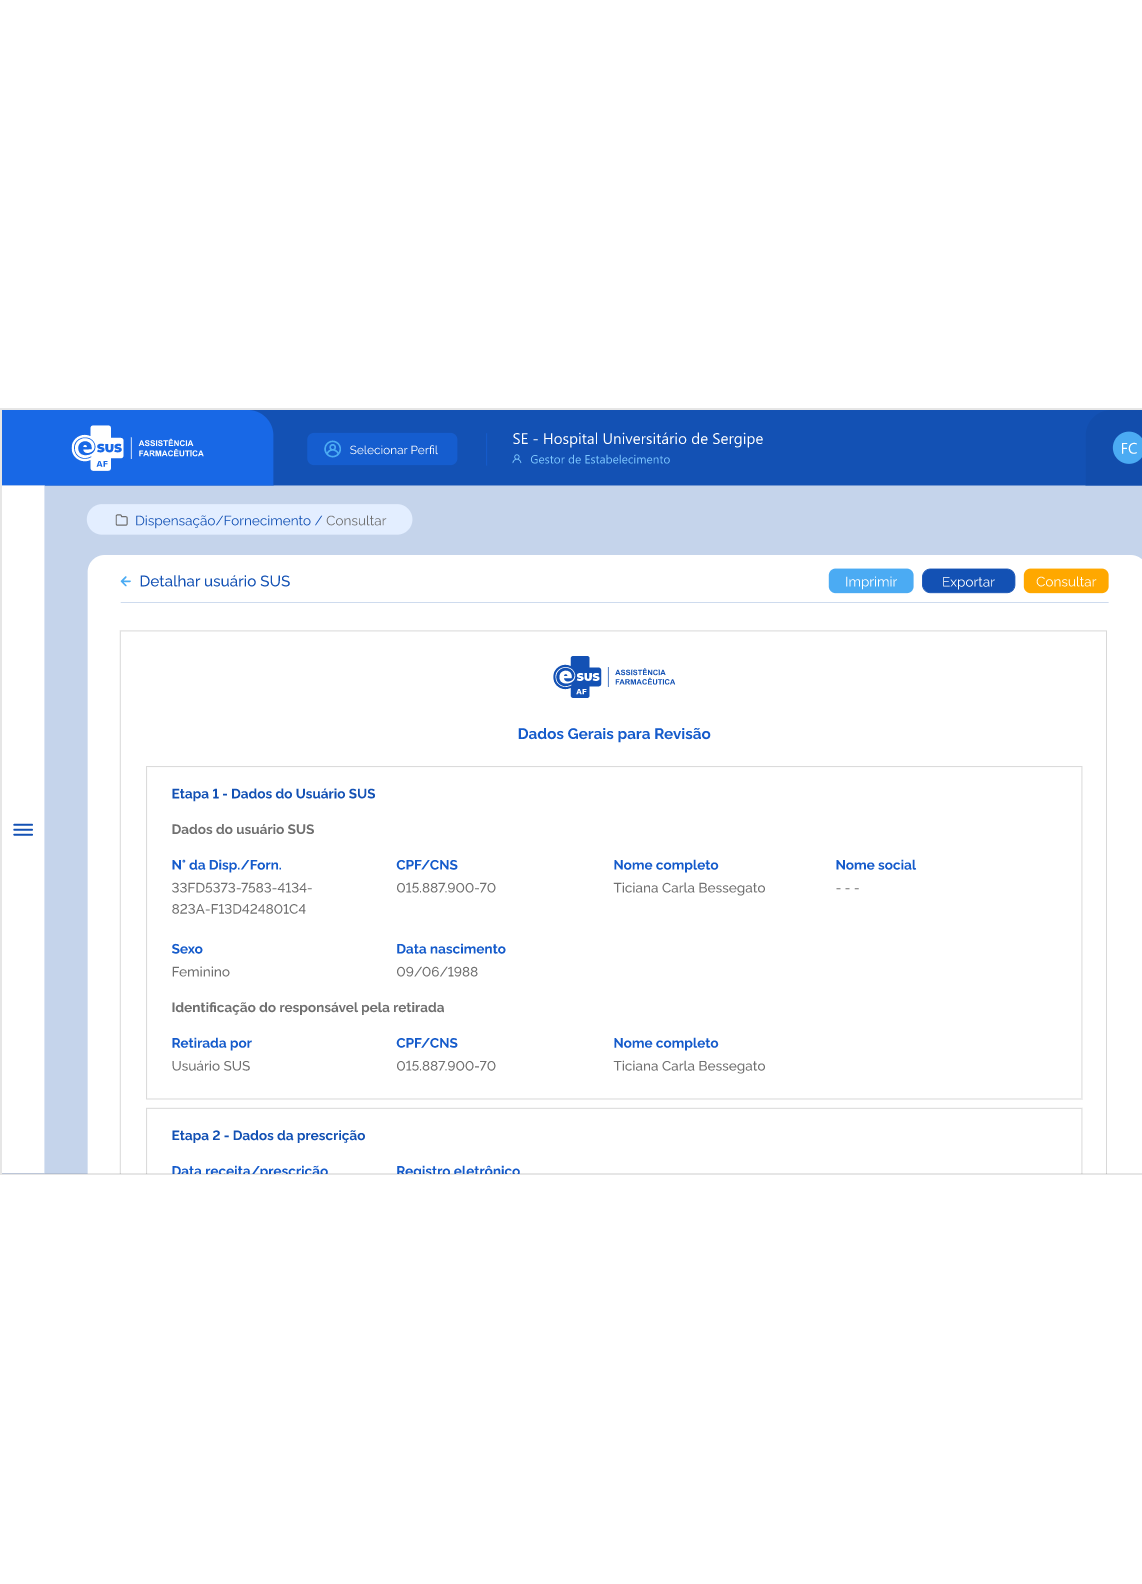
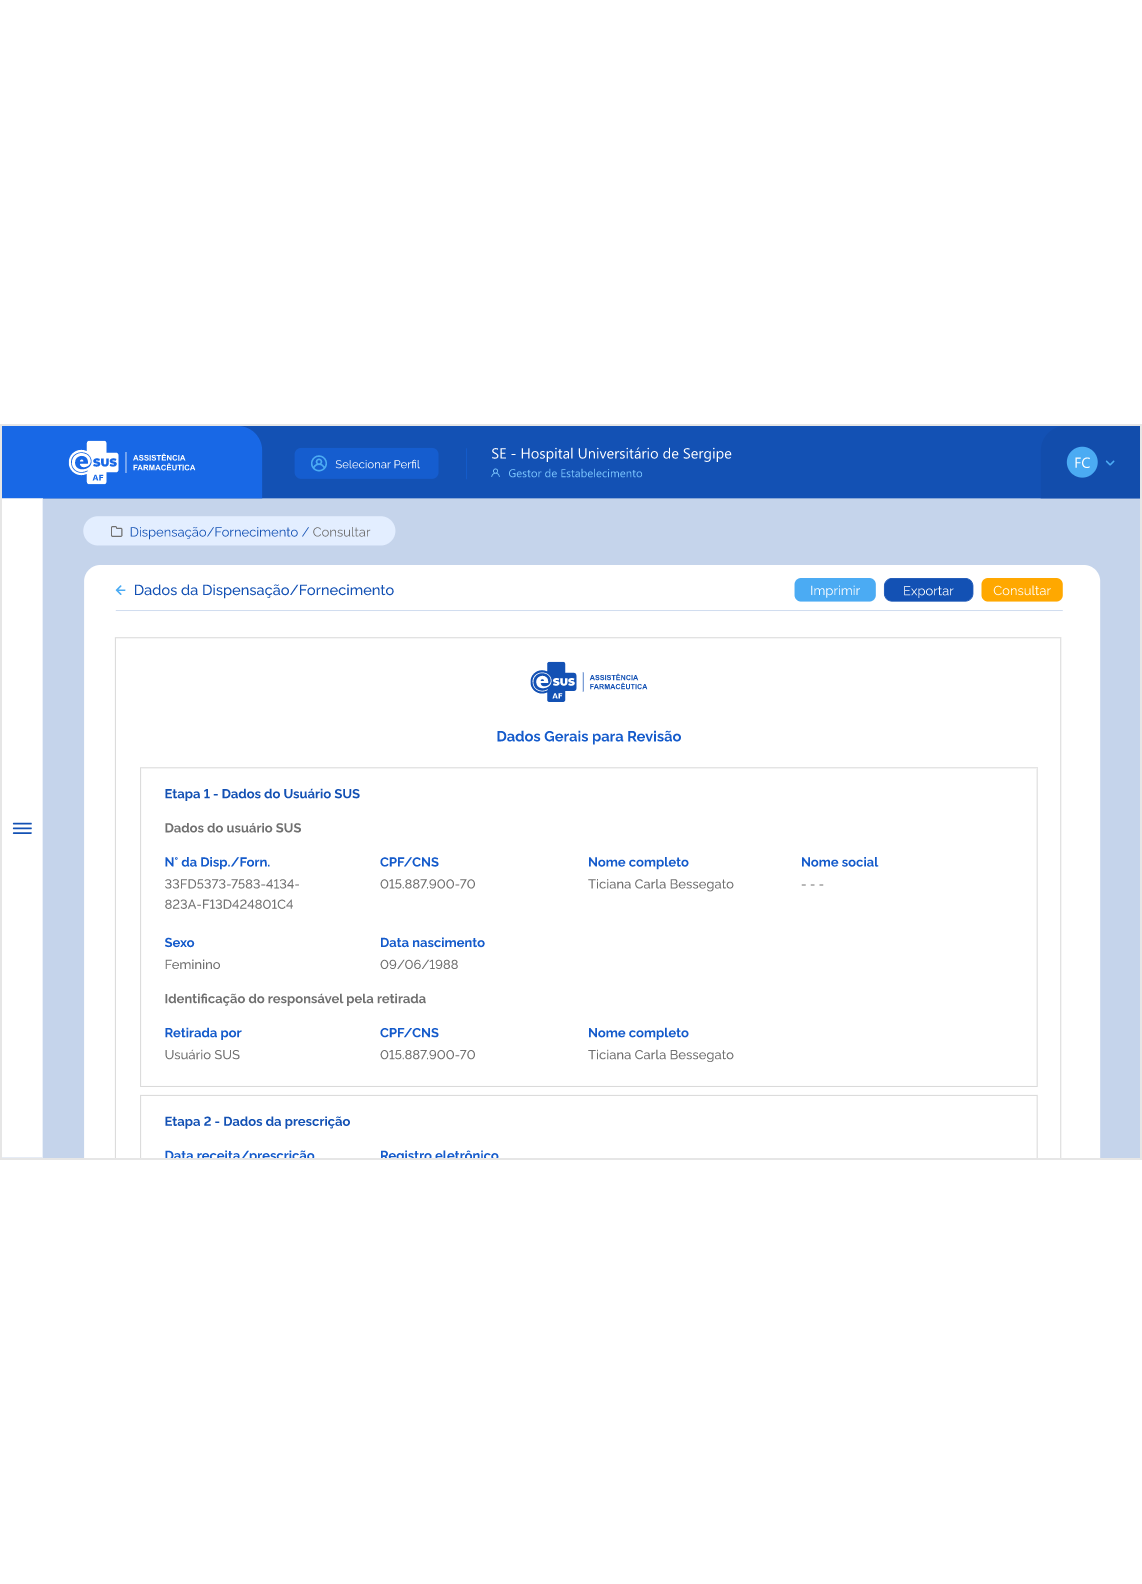
Atualização de imagens ETEs

diff --git a/docs/EspecificacoesTecnicas/ETE020.md b/docs/EspecificacoesTecnicas/ETE020.md
@@ -4,8 +4,8 @@
 Como usuário quero cadastrar uma entrada de produto(s) para adicioná-lo(s) ao estoque do estabelecimento de saúde logado
 
 ## Protótipo 001
-
-[Inserir imagem] <!-- ![alt text](../imagens/ete-020-prot-001-temp.png) -->
+![alt text](../imagens/ETE020-Prot1-Cadastrar-Entrada.png)
+![alt text](../imagens/ETE020-Prot1-2-Cadastrar-Entrada.png)
 
 ### Acesso  
 Menu lateral > Movimentações > Entrada > acionar botão “novo”. 
@@ -99,8 +99,9 @@ Menu lateral > Movimentações > Entrada > acionar botão “novo”.
 
 
 ## Protótipo 002
-
-[Inserir imagem] <!-- ![alt text](../imagens/ete-020-prot-002.png) -->
+![alt text](../imagens/ETE020-Prot2-Cadastrar-Entrada)
+![alt text](../imagens/ETE020-Prot2-1-Cadastrar-Entrada)
+![alt text](../imagens/ETE020-Prot2-2-Cadastrar-Entrada)
 
 ### Acesso  
 Menu lateral > Movimentações > Entrada > acionar botão “novo”> “Produtos” 
@@ -119,8 +120,9 @@ Menu lateral > Movimentações > Entrada > acionar botão “novo”> “Produto
 3. O sistema não deve permitir adicionar um produto já relacionado à entrada. [MSG023](DocumentoDeMensagensv2.md#msg023). 
 
 ## Protótipo 003
-
-[Inserir imagem] <!-- ![alt text](../imagens/ete-020-prot-003-temp.png) -->
+![alt text](../imagens/ETE020-Prot3-Cadastrar-Entrada.png)
+![alt text](../imagens/ETE020-Prot3-2-Cadastrar-Entrada.png)
+![alt text](../imagens/ETE020-Prot3-3-Cadastrar-Entrada.png)
 
 ### Acesso
 Menu lateral > Movimentações > Entrada > acionar botão “novo”> “Produtos” 

diff --git a/docs/EspecificacoesTecnicas/ETE021.md b/docs/EspecificacoesTecnicas/ETE021.md
@@ -4,8 +4,9 @@
 Como usuário quero editar uma entrada de produto(s) para adicioná-lo(s) ao estoque do estabelecimento de saúde logado
 
 ## Protótipo 001
-
-[Inserir imagem] <!-- ![alt text](../imagens/ete-021-prot-001-temp.png) -->
+![alt text](../imagens/ETE021-Prot1-Editar-Entrada.png)
+![alt text](../imagens/ETE021-Prot1-2-Editar-Entrada.png)
+![alt text](../imagens/ETE021-Prot1-3-Editar-Entrada.png)
 
 ### Acesso  
 Menu lateral > Movimentações > Entrada > consultar entrada > acionar o botão ações “editar” 
@@ -56,8 +57,9 @@ Menu lateral > Movimentações > Entrada > consultar entrada > acionar o botão 
 17. O sistema deve gravar a data, hora e CPF e nome do usuário que a executou qualquer ação de alteração no estado do registro. [RGN005](DocumentoDeRegrasv2.md#rgn005).
 
 ## Protótipo 002
-
-[Inserir imagem] <!-- ![alt text](../imagens/ete-021-prot-002.png) -->
+![alt text](../imagens/ETE021-Prot2-Editar-Entrada.png)
+![alt text](../imagens/ETE021-Prot2-2-Editar-Entrada.png)
+![alt text](../imagens/ETE021-Prot2-3-Editar-Entrada.png)
 
 ### Acesso  
 Menu lateral > Movimentações > Entrada > Consultar entrada > Acionar o botão ações “editar” 

diff --git a/docs/EspecificacoesTecnicas/ETE053.md b/docs/EspecificacoesTecnicas/ETE053.md
@@ -87,7 +87,9 @@ Menu lateral > Movimentação > Dispensação/Fornecimento > Cadastrar > Salvar 
 8. Caso o usuário saia da tela de dispensação, após o registro criado, esses dados estarão salvos na tela de consulta com o status “Em preenchimento”, podendo dar prosseguimento ao preenchimento dos dados, sem perder as informações já salvas. 
 
 ## Protótipo 003 
-![alt text](../imagens/
+![alt text](../imagens/ETE053-Prot3-1-Cadastrar-dispensacao-fornecimento.png)
+![alt text](../imagens/ETE053-Prot3-2-Cadastrar-dispensacao-fornecimento.png)
+![alt text](../imagens/ETE053-Prot3-3-Cadastrar-dispensacao-fornecimento.png)
 
 ### Acesso 
 Menu lateral > Movimentação > Dispensação/Fornecimento > Cadastrar > Salvar e avançar 

diff --git a/docs/EspecificacoesTecnicas/ETE031.md b/docs/EspecificacoesTecnicas/ETE031.md
@@ -4,8 +4,8 @@
 Como usuário quero editar o cadastro de um usuário SUS através da recuperação de dados do portal do CADSUS para minha instância.
 
 ## Protótipo 001
-
-![alt text](../imagens/ete-031-prot-001.png) <!-- Não sei se já foi alterada -->
+![alt text](../imagens/ETE031-Prot1-Editar-Usuario-SUS.png) 
+![alt text](../imagens/ETE031-Prot1-2-Editar-Usuario-SUS.png)
 
 ### Acesso 
 Menu lateral > Cadastro > Usuário SUS > Ação Editar 

diff --git a/docs/EspecificacoesTecnicas/ETE022.md b/docs/EspecificacoesTecnicas/ETE022.md
@@ -4,8 +4,8 @@
 Como usuário quero detalhar os dados de uma entrada de produto
 
 ## Protótipo 001
-
-[Inserir imagem] <!--![alt text](../imagens/ete-022-prot-001.png) -->
+![alt text](../imagens/ETE022-Prot1-Detalhar-Entrada.png)
+![alt text](../imagens/ETE022-Prot1-2-Detalhar-Entrada.png)
 
 ### Acesso  
 Menu lateral > Movimentações > Entrada > Consultar entrada > Acionar o botão ações “detalhar” 

diff --git a/docs/EspecificacoesTecnicas/ETE019.md b/docs/EspecificacoesTecnicas/ETE019.md
@@ -4,7 +4,7 @@
 Como usuário quero consultar a(s) entrada(s) de produto(s) realizada(s) no estabelecimento de saúde logado
 
 ## Protótipo 001
-![alt text](../imagens/) -->
+![alt text](../imagens/ETE019-Prot1-Consultar-Entrada.png)
 
 ### Acesso  
 Menu lateral > Movimentações > Entrada 
